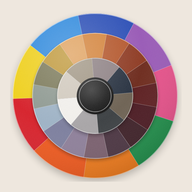
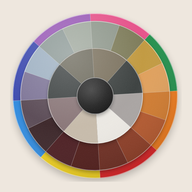
Круг как в книге

diff --git a/index.html b/index.html
@@ -81,7 +81,7 @@ footer{margin-top:28px;color:var(--mute);font-size:15px;text-align:center}
   <!-- КРУГ + ПАРА -->
   <section id="wheel">
     <svg id="svgwheel" viewBox="-160 -160 320 320"></svg>
-    <div class="hint" id="whint">Нажмите на цвет вашей вещи 👆</div>
+    <div class="hint" id="whint">Нажмите на цвет вашей вещи 👆<br><small style="font-weight:500;color:var(--mute)">кольца можно крутить пальцем</small></div><div style="text-align:center;margin-top:6px"><button class="btn ghost" onclick="window._resetWheel&&window._resetWheel()">↺ Вернуть как в книге</button></div>
     <div class="card res hidden" id="pairRes"></div>
     <details class="card"><summary style="font-weight:700">Что значат 4 кольца</summary><div id="rings"></div></details>
   </section>
@@ -113,13 +113,13 @@ footer{margin-top:28px;color:var(--mute);font-size:15px;text-align:center}
 <script>
 const RINGS = {
  1:{name:"Чёрный", mood:"сильный, резкий, графичный",
-    colors:[["Чёрный","#1A1D1D"]]},
+    colors:[["Чёрный","#1F2A28"]]},
  2:{name:"Классические нейтрали", mood:"предсказуемо, чётко, надёжно",
-    colors:[["Серо-коричневый","#6E6253"],["Графит","#3B3F42"],["Светло-серый","#A9A6A8"],["Белый","#F4F2EE"],["Стоун","#D3CBBF"],["Грейдж","#A39886"],["Серо-лиловый","#8F8285"],["Нэви","#26303F"]]},
+    colors:[["Тёплый тауп","#7A705C"],["Графит","#3A3F3E"],["Светло-серый","#A9A4A2"],["Белый","#EEEBE5"],["Стоун","#C8BCAB"],["Серо-лиловый","#8A7678"],["Тёмно-серый","#3D4242"],["Серая олива","#6D6A5C"]]},
  3:{name:"Цвета «без названия»", mood:"спокойно, тонко, «клей гардероба»",
-    colors:[["Серый шалфей","#8F9A92"],["Олива","#7C7A5A"],["Горчица","#C29A3A"],["Абрикос","#E3A35E"],["Тыквенный","#D6843A"],["Ржавый","#B5562A"],["Кирпич","#8F3A22"],["Каштан","#6E2A1C"],["Оксблад","#5C1D1F"],["Бордо","#4A1820"],["Тёмная слива","#3D1F26"],["Баклажан","#4A3340"],["Пыльная слива","#7A5F6E"],["Пыльный лиловый","#8E7F9A"],["Лавандово-серый","#7D7F9F"],["Пыльный голубой","#9FB4C7"]]},
+    colors:[["Серый шалфей","#8F988C"],["Олива","#7D7B58"],["Горчица","#C39A3E"],["Абрикос","#E2A05A"],["Тыквенный","#D27A2C"],["Ржавый","#B4562A"],["Кирпич","#8C3A22"],["Каштан","#6C2A1E"],["Оксблад","#4F1A17"],["Бордо","#4A1B1F"],["Тёмная слива","#3A2427"],["Баклажан","#5A4A55"],["Пыльный лиловый","#7E7598"],["Пыльный голубой","#9FB2C4"],["Серо-голубой","#8E9B98"],["Светлый шалфей","#A1AA9F"]]},
  4:{name:"Яркие", mood:"радостно, энергично, заметно",
-    colors:[["Розовый","#E8508A"],["Зелёный","#1F8F4A"],["Оранжевый","#F07A1A"],["Мандариновый","#F0581C"],["Красный","#D9202A"],["Жёлтый","#F2D21B"],["Голубой","#2F8BE0"],["Кобальт","#2B4FB8"],["Фиолетовый","#9A5AB8"]]}
+    colors:[["Розовый","#E8508A"],["Зелёный","#1F8F4A"],["Оранжевый","#F07A1A"],["Красный","#DC2224"],["Жёлтый","#F0D01C"],["Голубой","#2F8BE0"],["Кобальт","#3A48B0"],["Фиолетовый","#9A5AB8"]]}
 };
 const COMBO = {
  "1":["Монохром в чёрном","строго и графично","Чтобы не было плоско — добавьте фактуру или одну вещь из кольца 3."],
@@ -186,7 +186,7 @@ function drawWheel(){
  const svg=document.getElementById('svgwheel');
  // Стопка матовых дисков, как у физического круга: снизу самый большой (кольцо 4), сверху меньше, в центре чёрная «шляпка».
  // У каждого диска своя неподвижная тень (видно, что слои лежат друг на друге) и свой поворот.
- const R_OUT={1:30,2:70,3:116,4:152};
+ const R_OUT={1:34,2:88,3:138,4:152};
  const p=(rad,a)=>[rad*Math.cos(a),rad*Math.sin(a)];
  const wedge=(r0,r1,a0,a1)=>{const [x0,y0]=p(r1,a0),[x1,y1]=p(r1,a1),[x2,y2]=p(r0,a1),[x3,y3]=p(r0,a0);
    return `M${x0},${y0}A${r1},${r1} 0 0 1 ${x1},${y1}L${x2},${y2}A${r0},${r0} 0 0 0 ${x3},${y3}Z`};
@@ -199,11 +199,11 @@ function drawWheel(){
   if(r==="1"){const c=RINGS[1].colors[0];
    html=`<circle class="hit" r="34" fill="url(#cap)" data-h="${c[1]}" data-n="${c[0]}" data-r="1"/>`}
   else{const cols=RINGS[r].colors,n=cols.length;
-   cols.forEach((c,i)=>{const a0=i/n*2*Math.PI-Math.PI/2,a1=(i+1)/n*2*Math.PI-Math.PI/2;
+   cols.forEach((c,i)=>{const OFF=-Math.PI/2-3.5*Math.PI/180,a0=i/n*2*Math.PI+OFF,a1=(i+1)/n*2*Math.PI+OFF;
     // видимая часть сегмента; под верхним диском он продолжается внутрь (без щелей при вращении)
     html+=`<path class="seg" d="${wedge(Math.max(0,r0-6),r1,a0,a1)}" fill="${c[1]}" pointer-events="none"/>`;
     html+=`<path d="${wedge(r0,r1,a0,a1)}" data-h="${c[1]}" data-n="${c[0]}" data-r="${r}"><title>${c[0]} · кольцо ${r}</title></path>`});
-   html+=`<g stroke="rgba(255,255,255,.35)" stroke-width=".7" pointer-events="none">${cols.map((_,i)=>{const a=i/n*2*Math.PI-Math.PI/2;const [x,y]=p(r1,a),[x2,y2]=p(r0,a);return `<line x1="${x2}" y1="${y2}" x2="${x}" y2="${y}"/>`}).join('')}</g>`;
+   html+=`<g stroke="rgba(255,255,255,.35)" stroke-width=".7" pointer-events="none">${cols.map((_,i)=>{const a=i/n*2*Math.PI-Math.PI/2-3.5*Math.PI/180;const [x,y]=p(r1,a),[x2,y2]=p(r0,a);return `<line x1="${x2}" y1="${y2}" x2="${x}" y2="${y}"/>`}).join('')}</g>`;
   }
   // кромка диска: светлый ободок даёт толщину
   html+=`<circle r="${r1-.6}" fill="none" stroke="rgba(255,255,255,.55)" stroke-width="1.2" pointer-events="none"/>`;
@@ -213,8 +213,8 @@ function drawWheel(){
   <filter id="blurL" x="-30%" y="-30%" width="160%" height="160%"><feGaussianBlur stdDeviation="7"/></filter>
   <filter id="blurS" x="-30%" y="-30%" width="160%" height="160%"><feGaussianBlur stdDeviation="3"/></filter>
   <radialGradient id="cap" cx="40%" cy="35%" r="70%"><stop offset="0" stop-color="#3a3a3a"/><stop offset=".6" stop-color="#1c1c1c"/><stop offset="1" stop-color="#111"/></radialGradient>
-  <radialGradient id="light" cx="35%" cy="25%" r="80%"><stop offset="0" stop-color="#fff" stop-opacity=".22"/><stop offset=".55" stop-color="#fff" stop-opacity="0"/><stop offset="1" stop-color="#000" stop-opacity=".12"/></radialGradient>
-  <filter id="grain" x="0" y="0" width="100%" height="100%"><feTurbulence type="fractalNoise" baseFrequency=".9" numOctaves="2" seed="3"/><feColorMatrix type="saturate" values="0"/><feComponentTransfer><feFuncA type="linear" slope=".1"/></feComponentTransfer></filter>
+  <radialGradient id="light" cx="35%" cy="25%" r="80%"><stop offset="0" stop-color="#fff" stop-opacity=".10"/><stop offset=".55" stop-color="#fff" stop-opacity="0"/><stop offset="1" stop-color="#000" stop-opacity=".12"/></radialGradient>
+  <filter id="grain" x="0" y="0" width="100%" height="100%"><feTurbulence type="fractalNoise" baseFrequency=".9" numOctaves="2" seed="3"/><feColorMatrix type="saturate" values="0"/><feComponentTransfer><feFuncA type="linear" slope=".06"/></feComponentTransfer></filter>
   <clipPath id="disc"><circle r="152"/></clipPath>
  </defs>${out}
  <g pointer-events="none" clip-path="url(#disc)"><circle r="152" fill="url(#light)"/><rect x="-152" y="-152" width="304" height="304" filter="url(#grain)" style="mix-blend-mode:multiply"/></g>`;
@@ -223,15 +223,16 @@ function drawWheel(){
 /* ---------- вращение круга: сам медленно крутится, пальцем — с инерцией, тап выбирает цвет ---------- */
 function initSpin(svg){
  // у каждого кольца свой угол, скорость и направление
- const R={};svg.querySelectorAll('.ringL').forEach(g=>{const k=+g.dataset.ring;R[k]={g,ang:0,vel:0,auto:{1:0.05,2:0.07,3:-0.05,4:0.035}[k]}});
+ const R={};svg.querySelectorAll('.ringL').forEach(g=>{const k=+g.dataset.ring;R[k]={g,ang:0,vel:0,auto:0}});
  let drag=null,last=null,lastT=0,moved=0,startEl=null,idle=true,idleTimer=null;
  const center=()=>{const r=svg.getBoundingClientRect();return [r.left+r.width/2,r.top+r.height/2,r.width/320]};
  const angleAt=e=>{const [cx,cy]=center();return Math.atan2(e.clientY-cy,e.clientX-cx)*180/Math.PI};
- const ringAt=e=>{const [cx,cy,k]=center();const d=Math.hypot(e.clientX-cx,e.clientY-cy)/k;return d<31?1:d<71?2:d<117?3:4};
+ const ringAt=e=>{const [cx,cy,k]=center();const d=Math.hypot(e.clientX-cx,e.clientY-cy)/k;return d<35?1:d<89?2:d<139?3:4};
  const apply=o=>o.g.setAttribute('transform',`rotate(${o.ang})`);
  function frame(){
   for(const k in R){const o=R[k];if(drag===o)continue;
-   if(Math.abs(o.vel)>0.02){o.ang+=o.vel;o.vel*=0.95} else if(idle){o.ang+=o.auto} apply(o)}
+   // перерисовываем только то кольцо, которое реально движется (экономит батарею и не грузит телефон)
+   if(Math.abs(o.vel)>0.02){o.ang+=o.vel;o.vel*=0.95;apply(o)} else if(idle&&o.auto){o.ang+=o.auto;apply(o)}}
   requestAnimationFrame(frame)}
  svg.addEventListener('pointerdown',e=>{drag=R[ringAt(e)];idle=false;clearTimeout(idleTimer);drag.vel=0;last=angleAt(e);lastT=performance.now();moved=0;
   startEl=e.target.closest('[data-h]');svg.setPointerCapture(e.pointerId)});
@@ -245,7 +246,7 @@ function initSpin(svg){
   pairColor={hex:el.dataset.h,name:el.dataset.n,ring:+el.dataset.r};renderPair();
   document.getElementById('pairRes').scrollIntoView({behavior:'smooth',block:'start'})}
  // приветственный оборот: кольца раскручиваются в разные стороны
- R[2].vel=5;R[3].vel=-6;R[4].vel=4;requestAnimationFrame(frame);
+ requestAnimationFrame(frame);window._resetWheel=()=>{for(const k in R){R[k].vel=0;R[k].ang=0;apply(R[k])}};
 }
 function ringsInfo(){
  document.getElementById('rings').innerHTML=ORDER.map(r=>`<div style="margin-top:14px"><div class="ring"><span class="num">${r}</span><span class="rname">${RINGS[r].name}</span></div>

diff --git a/sw.js b/sw.js
@@ -1,6 +1,6 @@
 // Offline support. Pages: network first, so updates show up immediately; cache is the fallback offline.
 // Images/fonts: cache first.
-const CACHE = "color-wheel-v15";
+const CACHE = "color-wheel-v16";
 const FILES = ["./", "./index.html", "./manifest.webmanifest", "./icon-192.png", "./icon-512.png", "./apple-touch-icon.png"];
 self.addEventListener("install", e => e.waitUntil(caches.open(CACHE).then(c => c.addAll(FILES)).then(() => self.skipWaiting())));
 self.addEventListener("activate", e => e.waitUntil(
